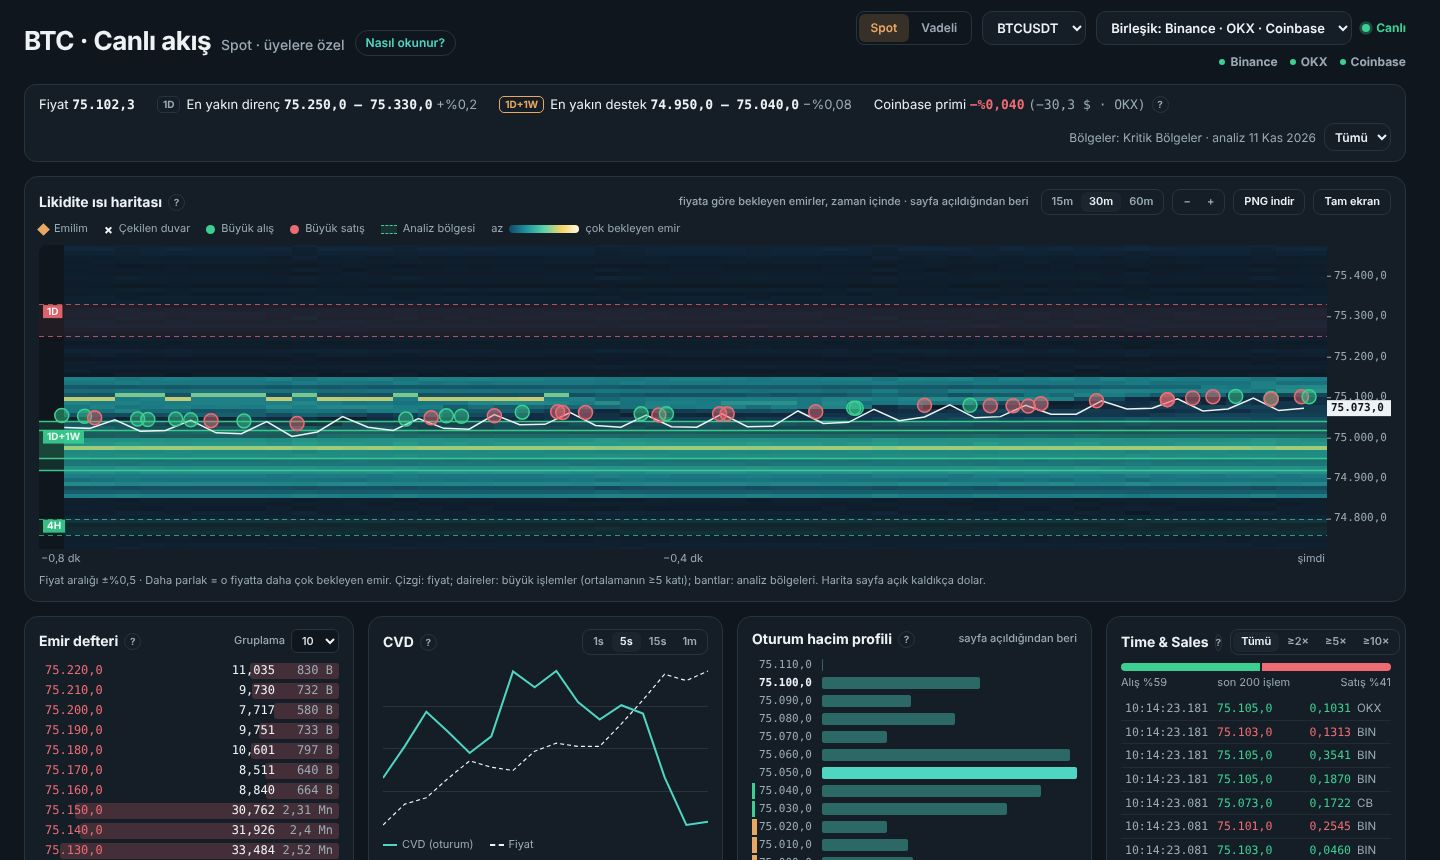
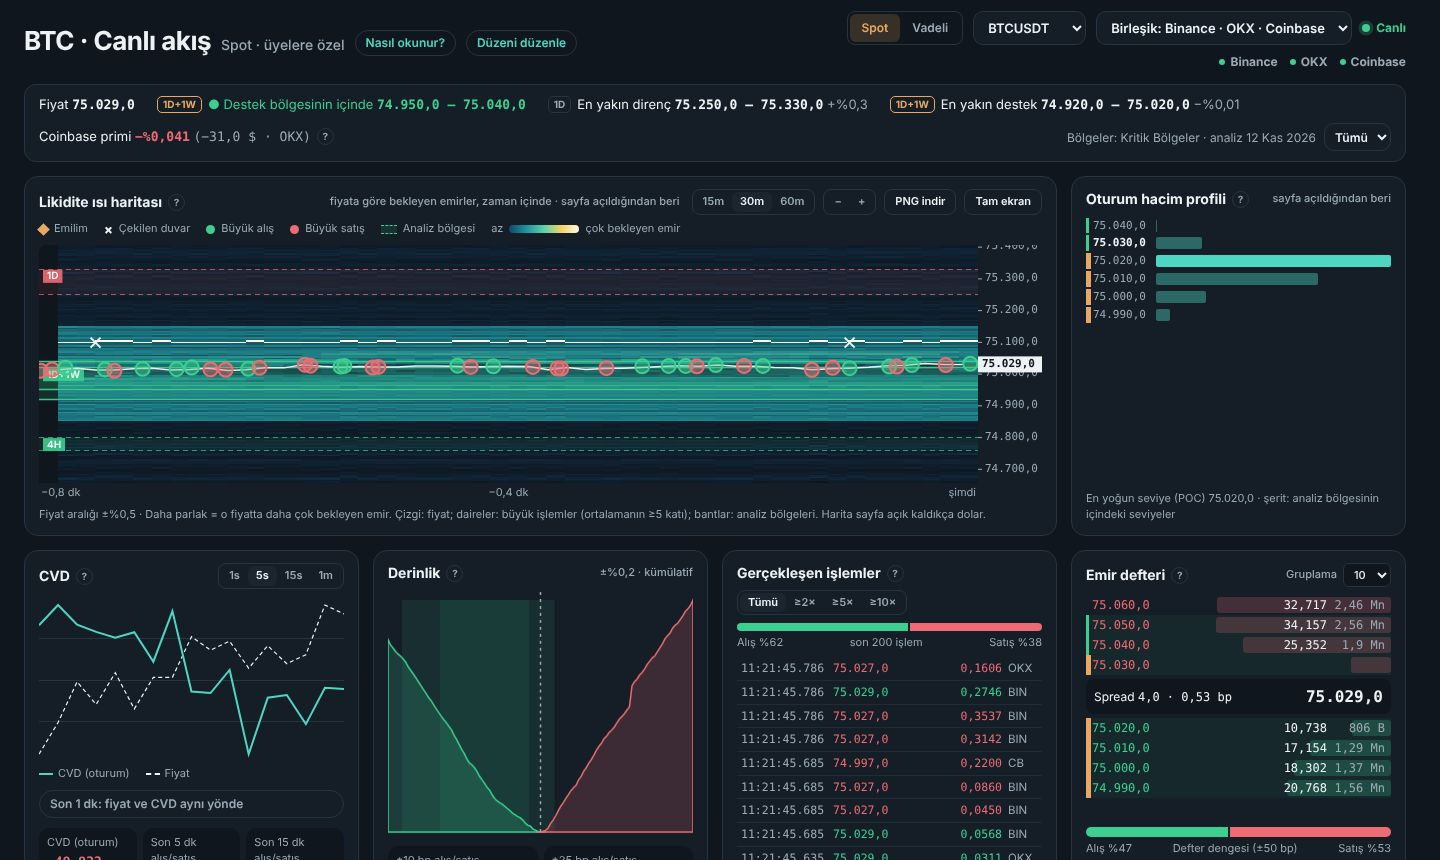
Home: member tool screenshots in English and Turkish
The "Live tools" screenshots now exist in both languages and follow the page
language; the scanner image shows the new Scanner panel.

Claude-Session: https://claude.ai/code/session_01TVNuJtrWJGGwLG3VD9tqfx

diff --git a/index.html b/index.html
@@ -272,9 +272,9 @@ try{var savedTheme=localStorage.getItem("mlm-theme");if(savedTheme==="light"||sa
 <div class="page-head"><div><p class="kicker" data-i18n="mbKicker">For members</p><h2 id="members-title" data-i18n="mbTitle">Live tools</h2>
 <p data-i18n="mbText">Watch the analysis zones together with live market data. The data comes from the exchanges straight to your browser; nothing is recorded.</p></div></div>
 <div class="mb-grid">
-<a class="mb-card card big" href="/flow" data-mb="flow"><img src="assets/members/flow.jpg?v=84f47795" alt="" width="1440" height="860" loading="lazy"><div class="mb-body"><h3 data-i18n="mbFlow">Live flow</h3><p data-i18n="mbFlowText"></p></div></a>
-<a class="mb-card card" href="/flow" data-mb="scanner"><img src="assets/members/scanner.jpg?v=286acec1" alt="" width="1440" height="620" loading="lazy"><div class="mb-body"><h3 data-i18n="mbScan">Scanner</h3><p data-i18n="mbScanText"></p></div></a>
-<a class="mb-card card" href="/bulletin" data-mb="summary"><img src="assets/members/summary.jpg?v=9aff538a" alt="" width="1120" height="488" loading="lazy"><div class="mb-body"><h3 data-i18n="mbSum">Flow summary</h3><p data-i18n="mbSumText"></p></div></a>
+<a class="mb-card card big" href="/flow" data-mb="flow"><img src="assets/members/flow-en.jpg?v=4c7fac1f" data-src-tr="assets/members/flow.jpg?v=cbf525ca" alt="" width="1440" height="860" loading="lazy"><div class="mb-body"><h3 data-i18n="mbFlow">Live flow</h3><p data-i18n="mbFlowText"></p></div></a>
+<a class="mb-card card" href="/flow" data-mb="scanner"><img src="assets/members/scanner-en.jpg?v=a5dc97f6" data-src-tr="assets/members/scanner.jpg?v=58cc982b" alt="" width="1382" height="361" loading="lazy"><div class="mb-body"><h3 data-i18n="mbScan">Scanner</h3><p data-i18n="mbScanText"></p></div></a>
+<a class="mb-card card" href="/bulletin" data-mb="summary"><img src="assets/members/summary-en.jpg?v=0cfd5265" data-src-tr="assets/members/summary.jpg?v=23e59ab3" alt="" width="1120" height="510" loading="lazy"><div class="mb-body"><h3 data-i18n="mbSum">Flow summary</h3><p data-i18n="mbSumText"></p></div></a>
 </div>
 <div class="mb-cta"><a class="btn btn-primary" id="mb-cta" href="/account"></a><span class="mb-note" id="mb-cta-note"></span></div>
 <p class="mb-sample" data-i18n="mbSample">Images: sample data.</p>
@@ -302,6 +302,8 @@ function applyLanguage(value){
   document.querySelectorAll("[data-tr]").forEach(function(el){if(!el.dataset.en)el.dataset.en=el.textContent;el.textContent=value==="tr"?el.dataset.tr:el.dataset.en});
   document.querySelectorAll("[data-href-tr]").forEach(function(el){if(!el.dataset.hrefEn)el.dataset.hrefEn=el.getAttribute("href");el.setAttribute("href",value==="tr"?el.dataset.hrefTr:el.dataset.hrefEn)});
   try{localStorage.setItem("mlm-lang",value)}catch(e){}
+  /* "For members" screenshots exist in both languages. */
+  document.querySelectorAll("img[data-src-tr]").forEach(function(im){if(!im.dataset.srcEn)im.dataset.srcEn=im.getAttribute("src");var want=value==="tr"?im.dataset.srcTr:im.dataset.srcEn;if(im.getAttribute("src")!==want)im.setAttribute("src",want)});
   if(window.syncMembersCta)syncMembersCta();
 }
 /* "For members" call to action: guests sign in to apply, applicants see their profile, members open the tools. */

diff --git a/README.md b/README.md
@@ -54,7 +54,8 @@ cache previews per link, so a link shared before a change keeps its old card for
   key levels and earlier analyses. A switch at the top chooses the discipline: Critical Zones (default) or
   Price Action (`&method=pa`, see "Price Action view").
 - Home page **"For members"** section (under the table): the live flow, scanner and flow summary with sample
-  screenshots (`assets/members/*.jpg`, made from the test feeds) and a call to action that follows the account:
+  screenshots in both languages (`assets/members/*.jpg` Turkish, `*-en.jpg` English, swapped with the page language; made
+  from the test feeds) and a call to action that follows the account:
   guests sign in to apply, applicants see their profile, members open the live flow.
 - `flow.html?asset=BTCUSDT` — members-only live order flow (see "Live order flow").
 - `scanner.html` — forwards to `/flow` (the scanner is a panel of the live flow; see "Zone scanner").
